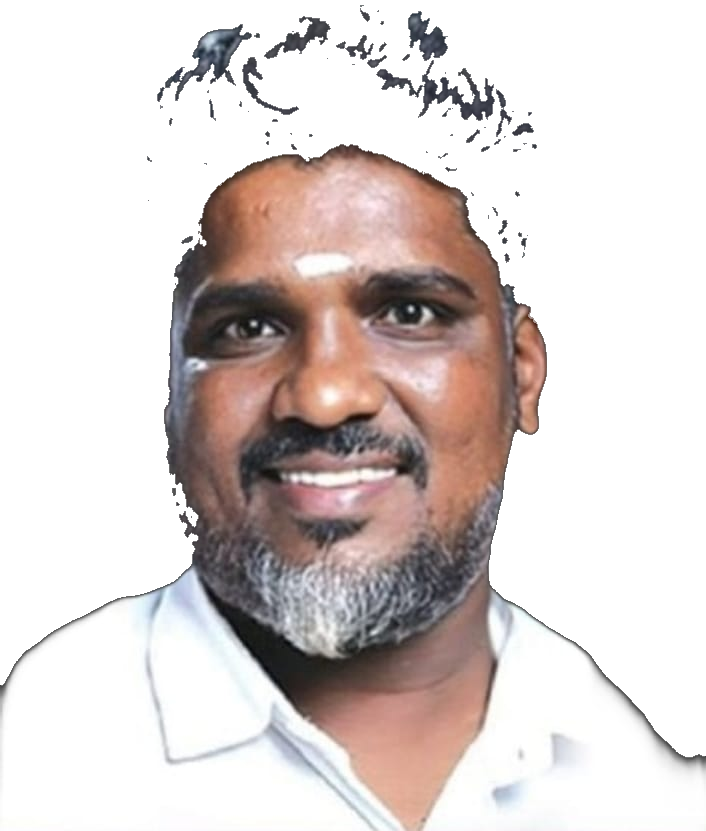
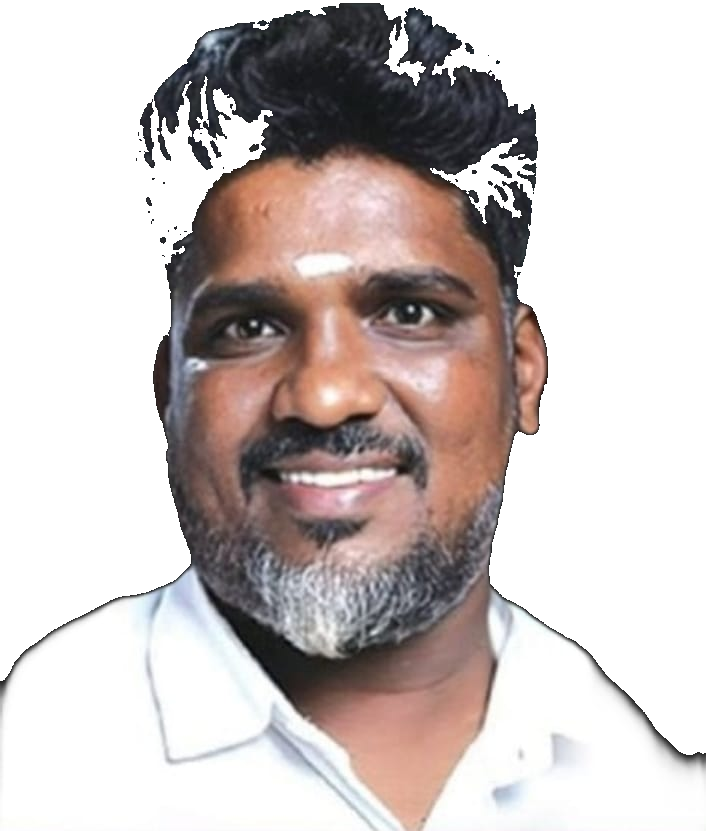
fix: preserve dark hair in mla4 cutout PNG - stricter background threshold

diff --git a/remove_bg.py b/remove_bg.py
@@ -1,0 +1,68 @@
+from PIL import Image
+import numpy as np
+from collections import deque
+
+# Use the new source image (black background, intact hair)
+img = Image.open("WhatsApp Image 2026-08-20 at 14.23.02.jpeg").convert("RGBA")
+w, h = img.size
+data = np.array(img)
+
+# Build alpha channel — start fully opaque
+alpha = np.ones((h, w), dtype=np.uint8) * 255
+
+# --- Flood-fill background from all 4 corners ---
+# Strict threshold: pure/near-pure black background pixels only
+# The background is very close to (0,0,0); hair pixels are dark but warmer/brighter
+def is_bg(r, g, b):
+    r, g, b = int(r), int(g), int(b)
+    # Must be very dark overall AND near-neutral (no warm brown/blue tones typical of hair)
+    brightness = (r + g + b) / 3
+    # Max channel spread — hair tends to have some warmth; pure black background does not
+    spread = max(r, g, b) - min(r, g, b)
+    return brightness < 35 and spread < 15
+
+visited = np.zeros((h, w), dtype=bool)
+queue = deque()
+
+# Seed from all border pixels that are background
+for x in range(w):
+    for y in [0, h-1]:
+        if not visited[y, x] and is_bg(data[y,x,0], data[y,x,1], data[y,x,2]):
+            queue.append((y, x))
+            visited[y, x] = True
+for y in range(h):
+    for x in [0, w-1]:
+        if not visited[y, x] and is_bg(data[y,x,0], data[y,x,1], data[y,x,2]):
+            queue.append((y, x))
+            visited[y, x] = True
+
+# BFS flood fill
+while queue:
+    y, x = queue.popleft()
+    alpha[y, x] = 0  # make transparent
+    for dy, dx in [(-1,0),(1,0),(0,-1),(0,1)]:
+        ny, nx = y+dy, x+dx
+        if 0 <= ny < h and 0 <= nx < w and not visited[ny, nx]:
+            r, g, b = data[ny,nx,0], data[ny,nx,1], data[ny,nx,2]
+            if is_bg(r, g, b):
+                visited[ny, nx] = True
+                queue.append((ny, nx))
+
+# Gentle 1-pixel edge feather only for pixels that are truly background-dark
+# (brightness < 40) at the boundary — avoids erasing dark hair
+for y in range(1, h-1):
+    for x in range(1, w-1):
+        if alpha[y, x] == 255:
+            neighbours = [alpha[y+dy, x+dx] for dy,dx in [(-1,0),(1,0),(0,-1),(0,1)]]
+            if any(n == 0 for n in neighbours):
+                r, g, b = int(data[y,x,0]), int(data[y,x,1]), int(data[y,x,2])
+                brightness = (r + g + b) / 3
+                spread = max(r, g, b) - min(r, g, b)
+                # Only feather pixels that look like background (very dark, neutral)
+                if brightness < 30 and spread < 12:
+                    alpha[y, x] = int(brightness * 4)
+
+data[:,:,3] = alpha
+result = Image.fromarray(data)
+result.save("public/assets/mla4-cutout.png", "PNG")
+print("Done — mla4-cutout.png saved with intact hair.")
